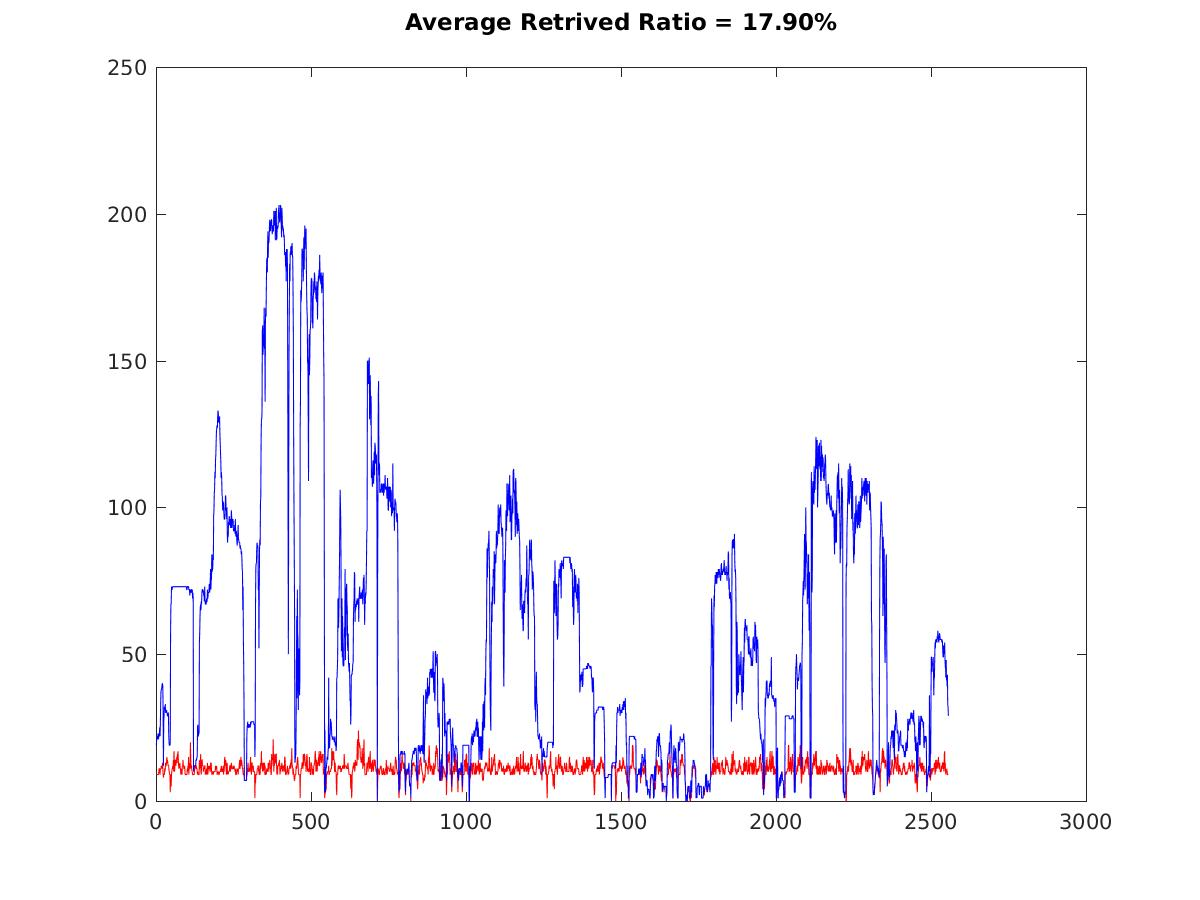
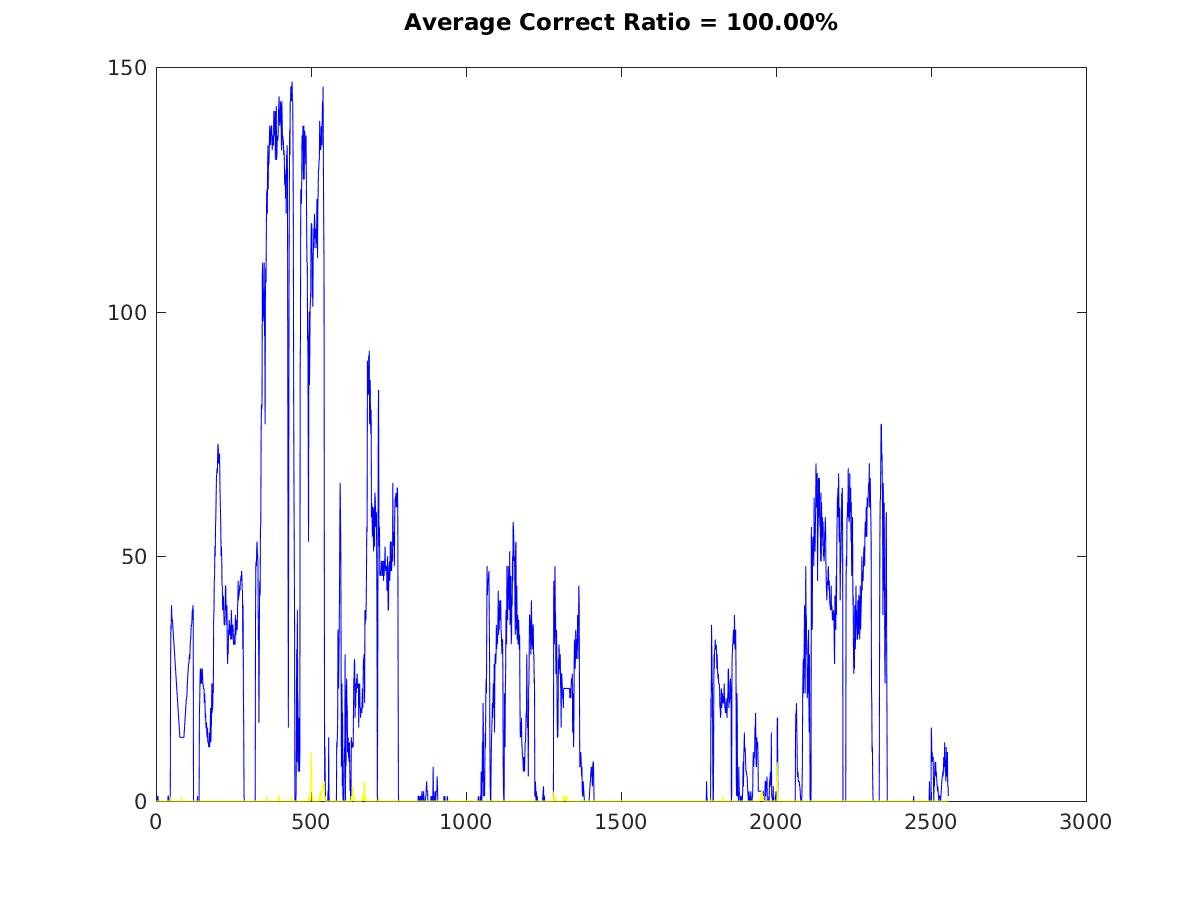
now compatible with modified colmap

diff --git a/ShowInlierMatches_seperate_30.m b/ShowInlierMatches_seperate_30.m
@@ -1,13 +1,8 @@
 clear all; close all; clc;
 %% choice
-<<<<<<< HEAD
 database_path = '/playpen/matchingResults/';
 %database_path = '../matchingResults/';
-database_name = 'vocab262144_20_30';
-=======
-database_path = '../matchingResults/';
 database_name = 'vocab262144_100';
->>>>>>> 109a7be81427394fb2f1febba4de139e5bca2fdb
 compareWithExhaustiveMatching = 1;
 %% use the following system command to fetch data from database file
 % the system command ">!", which means overwrite redirection, can be
@@ -28,11 +23,8 @@ pairid = pairid_info.data;
 system(['sqlite3 -csv -header ',database_path, database_name, '.db "SELECT image_id FROM images" > ./cache/images.csv']);
 images_info = importdata(['./cache/images.csv']);
 image_id = images_info.data;
-<<<<<<< HEAD
 system(['sqlite3 -csv -header ',database_path, database_name, '.db "SELECT name FROM images" > ./cache/image_names.csv']);
 imagesname_info = importdata(['./cache/image_names.csv']);
-=======
->>>>>>> 109a7be81427394fb2f1febba4de139e5bca2fdb
 system(['sqlite3 -csv -header ',database_path, database_name, '.db "SELECT rows FROM keypoints" > ./cache/keypoints.csv']);
 keypoints_info = importdata(['./cache/keypoints.csv']);
 keypoints = keypoints_info.data;
@@ -44,25 +36,17 @@ Matches = zeros(Num_Images);
 for i=1:length(pairid)
     id2 = mod(pairid(i), 2147483647);
     id1 = floor((pairid(i) - id2)/2147483647 + 0.5);
-    Matches(id1, id2) = inlier(i);%/(keypoints(id1) + keypoints(id2));
-<<<<<<< HEAD
-    %Matches(id2, id1) = inlier(i);%/(keypoints(id1) + keypoints(id2));
-end
-figure('Name', 'Matches');
-mesh(Matches);
-%% compare VocabTree Matching with Exhaustive matching
-if(compareWithExhaustiveMatching)
-    exhaustive_faraway_pairs = zeros(Num_Inlier, 3);
-    count = 0;
-    database_path = '/playpen/matchingResults/';
-=======
-    Matches(id2, id1) = inlier(i);%/(keypoints(id1) + keypoints(id2));
+    if(abs(id2 - id1) > 30)
+        Matches(id1, id2) = inlier(i);%/(keypoints(id1) + keypoints(id2));
+        Matches(id2, id1) = inlier(i);%/(keypoints(id1) + keypoints(id2));
+    end
 end
 %figure('Name', 'Dice Coefficients');
 %imshow(mat2gray(Matches));
 %% compare VocabTree Matching with Exhaustive matching
 if(compareWithExhaustiveMatching)
->>>>>>> 109a7be81427394fb2f1febba4de139e5bca2fdb
+    exhaustive_faraway_pairs = zeros(Num_Inlier, 3);
+    count = 0;
     exhaustivedb_name = 'exhaustivematching';
     system(['sqlite3 -csv -header ',database_path, exhaustivedb_name, '.db "SELECT rows FROM inlier_matches" > ./cache/exhaustiveresult.csv']);
     exhaustiveinlier_info = importdata(['./cache/exhaustiveresult.csv']);
@@ -75,23 +59,21 @@ if(compareWithExhaustiveMatching)
     for i=1:length(exhaustivepairid)
         id2 = mod(exhaustivepairid(i), 2147483647);
         id1 = floor((exhaustivepairid(i) - id2)/2147483647 + 0.5);
-        ExhaustiveMatches(id1, id2) = exhaustiveinlier(i);%/(keypoints(id1) + keypoints(id2));
-        ExhaustiveMatches(id2, id1) = exhaustiveinlier(i);%/(keypoints(id1) + keypoints(id2));
-<<<<<<< HEAD
+        if(abs(id2 - id1) > 30)
+            ExhaustiveMatches(id1, id2) = exhaustiveinlier(i);%/(keypoints(id1) + keypoints(id2));
+            ExhaustiveMatches(id2, id1) = exhaustiveinlier(i);%/(keypoints(id1) + keypoints(id2));
+        end
         if(abs(id2 - id1) > 30 && exhaustiveinlier(i) > 0.5)
             count = count + 1;
             exhaustive_faraway_pairs(count, :) = [id1, id2, exhaustiveinlier(i)];
         end
-=======
->>>>>>> 109a7be81427394fb2f1febba4de139e5bca2fdb
     end
     ax = (1:1:Num_Images);
     matchedImages = zeros(Num_Images, 1);
     exhaustiveImages = zeros(Num_Images, 1);
     for i=1:Num_Images
-<<<<<<< HEAD
-        matchedImages(i) =  length(find(Matches(i, :)>0.5));
-        exhaustiveImages(i) = length(find(ExhaustiveMatches(i, :)>0.5));
+        matchedImages(i) =  length(find(Matches(:, i)>0.5));
+        exhaustiveImages(i) = length(find(ExhaustiveMatches(:, i)>0.5));
     end
     
     correctMatches = zeros(Num_Images, 1);
@@ -103,28 +85,16 @@ if(compareWithExhaustiveMatching)
         end
     end
     retrivedRatio = sum(matchedImages) / sum(exhaustiveImages);
-    %fprintf('Average Retrived Ratio = %.2f%%\n', retrivedRatio*100);
-=======
-        matchedImages(i) =  length(find(Matches(:, i)>0.5));
-        exhaustiveImages(i) = length(find(ExhaustiveMatches(:, i)>0.5));
-    end
-    retrivedRatio = sum(matchedImages) / sum(exhaustiveImages);
     fprintf('Average Retrived Ratio = %.2f%%\n', retrivedRatio*100);
->>>>>>> 109a7be81427394fb2f1febba4de139e5bca2fdb
     h = figure;
     plot(ax, matchedImages, 'r');
     hold on;
     plot(ax, exhaustiveImages, 'b');
-<<<<<<< HEAD
     plot(ax, correctMatches, 'y');
     correctRatio = sum(correctMatches) / sum(matchedImages);
     hold off;
     %title(sprintf('Average Retrived Ratio = %.2f%%\n', retrivedRatio*100));
     title(sprintf('Average Correct Ratio = %.2f%%\n', correctRatio*100));
-=======
-    hold off;
-    title(sprintf('Average Retrived Ratio = %.2f%%\n', retrivedRatio*100));
->>>>>>> 109a7be81427394fb2f1febba4de139e5bca2fdb
     saveas(h, ['./output/', database_name, '.jpg'], 'jpg');
 end
 %% delete cache

diff --git a/ShowWhichImagesAreGeometricallyExcluded_seperate_30.m b/ShowWhichImagesAreGeometricallyExcluded_seperate_30.m
@@ -1,0 +1,30 @@
+delete('./cache/*');
+system(['sqlite3 -csv -header ',database_path, exhaustivedb_name, '.db "SELECT rows FROM matches" > ./cache/raw.csv']);
+exhaustiveraw_info = importdata(['./cache/raw.csv']);
+exhaustiveraw = exhaustiveraw_info.data;
+ExhaustiveRawMatches = zeros(Num_Images);
+for i=1:length(exhaustiveraw)
+    id2 = mod(exhaustivepairid(i), 2147483647);
+    id1 = floor((exhaustivepairid(i) - id2)/2147483647 + 0.5);
+    if(abs(id2 - id1) > 30)
+        ExhaustiveRawMatches(id1, id2) = exhaustiveraw(i);%/(keypoints(id1) + keypoints(id2));
+        ExhaustiveRawMatches(id2, id1) = exhaustiveraw(i);%/(keypoints(id1) + keypoints(id2));
+    end
+end
+
+path_to_images = '../group3/images/';
+if(~exist('../geometricallyexcluded', 'dir'))
+    mkdir('../geometricallyexcluded');
+end
+delete('../geometricallyexcluded/*');
+for i=1:Num_Images
+    for j= i:Num_Images
+        if(ExhaustiveRawMatches(i,j) > 0.5 && ExhaustiveMatches(i,j) <= 0.5)
+            im1 = imread([path_to_images, imagesname_info{i+1}]);
+            im2 = imread([path_to_images, imagesname_info{j+1}]);
+            im = [im1, im2];
+            imwrite(im, ['../geometricallyexcluded/',num2str(i),'_',num2str(j),'.jpg'], 'jpg');
+            fprintf('%s\n', [num2str(i),'_',num2str(j)]);
+        end
+    end
+end

diff --git a/faraway.m b/faraway.m
@@ -1,0 +1,14 @@
+% faraway pairs
+path_to_images = '../group3/images/';
+if(~exist('./farawaypairs', 'dir'))
+    mkdir('./farawaypairs');
+end
+delete('./farawaypairs/*');
+for i=1:count
+    id1 = exhaustive_faraway_pairs(i, 1);
+    id2 = exhaustive_faraway_pairs(i, 2);
+    im1 = imread([path_to_images, imagesname_info{id1+1}]);
+    im2 = imread([path_to_images, imagesname_info{id2+1}]);
+    im = [im1, im2];
+    imwrite(im, ['./farawaypairs/',num2str(id1),'_',num2str(id2),'_',num2str(exhaustive_faraway_pairs(i,3)),'.jpg'], 'jpg');
+end

diff --git a/BadFrames.m b/BadFrames.m
@@ -1,0 +1,11 @@
+% badly matched frames
+badids = find(exhaustiveImages <= 5);
+if(~exist('./badframes', 'dir'))
+    mkdir('./badframes');
+end
+delete('./badframes/*');
+path_to_images = '../group3/images/';
+for i=1:length(badids)
+    im = imread([path_to_images, imagesname_info{badids(i)}]);
+    imwrite(im, ['./badframes/',num2str(badids(i)),'.jpg'], 'jpg');
+end
